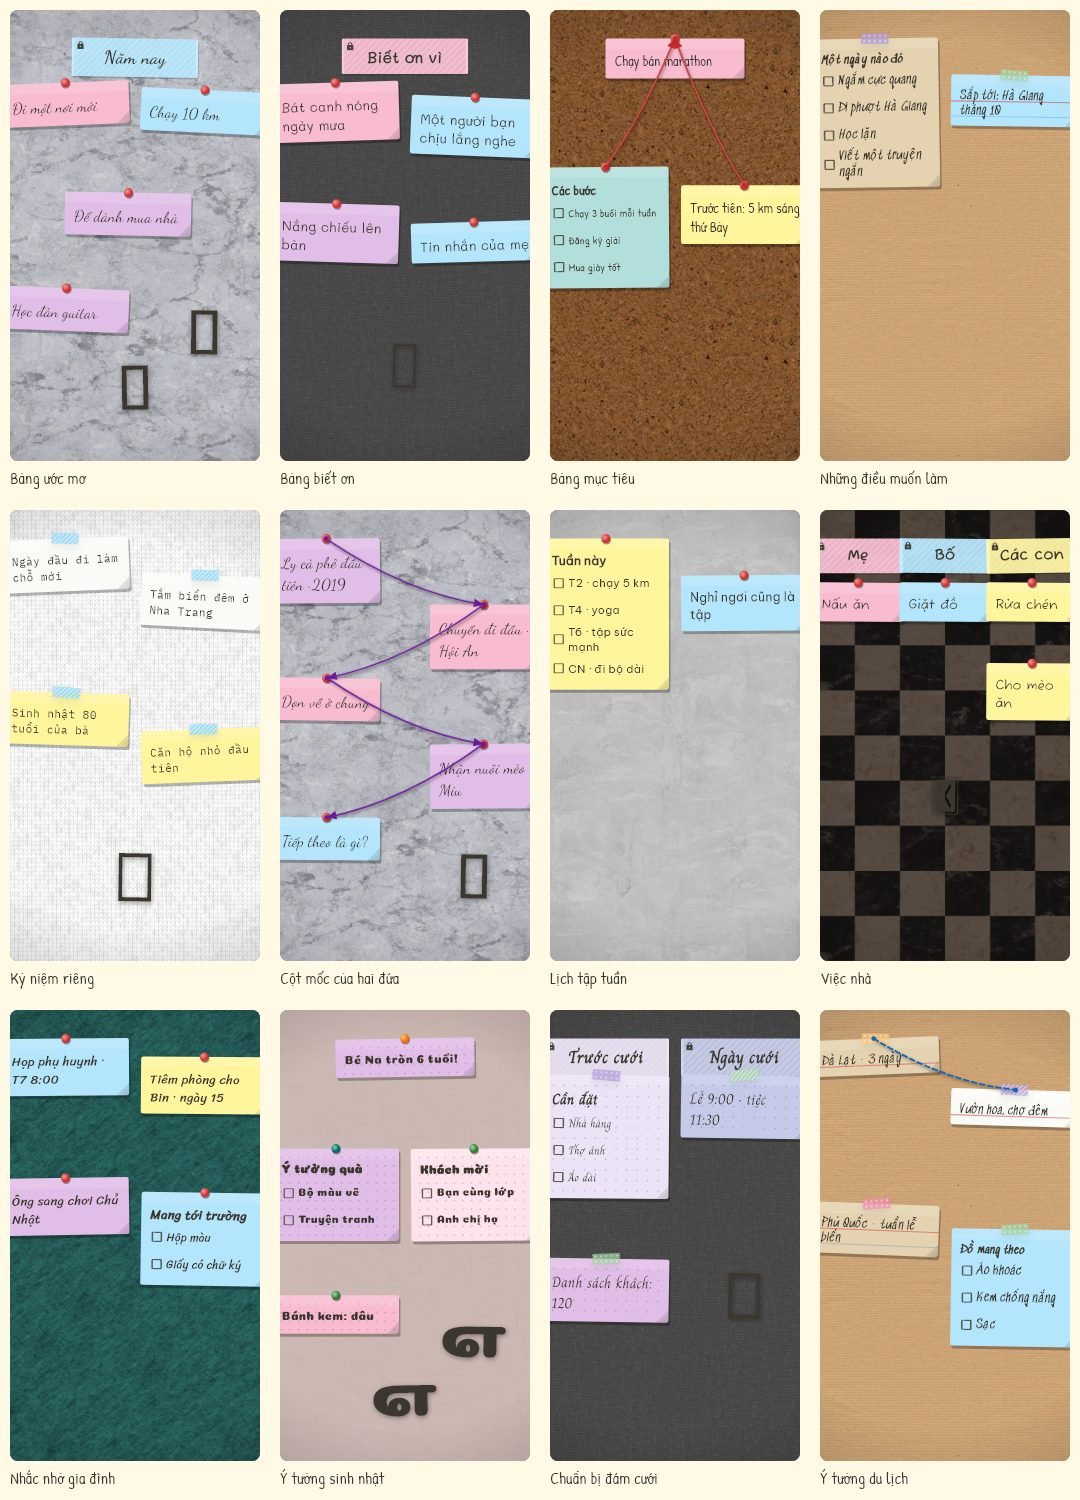
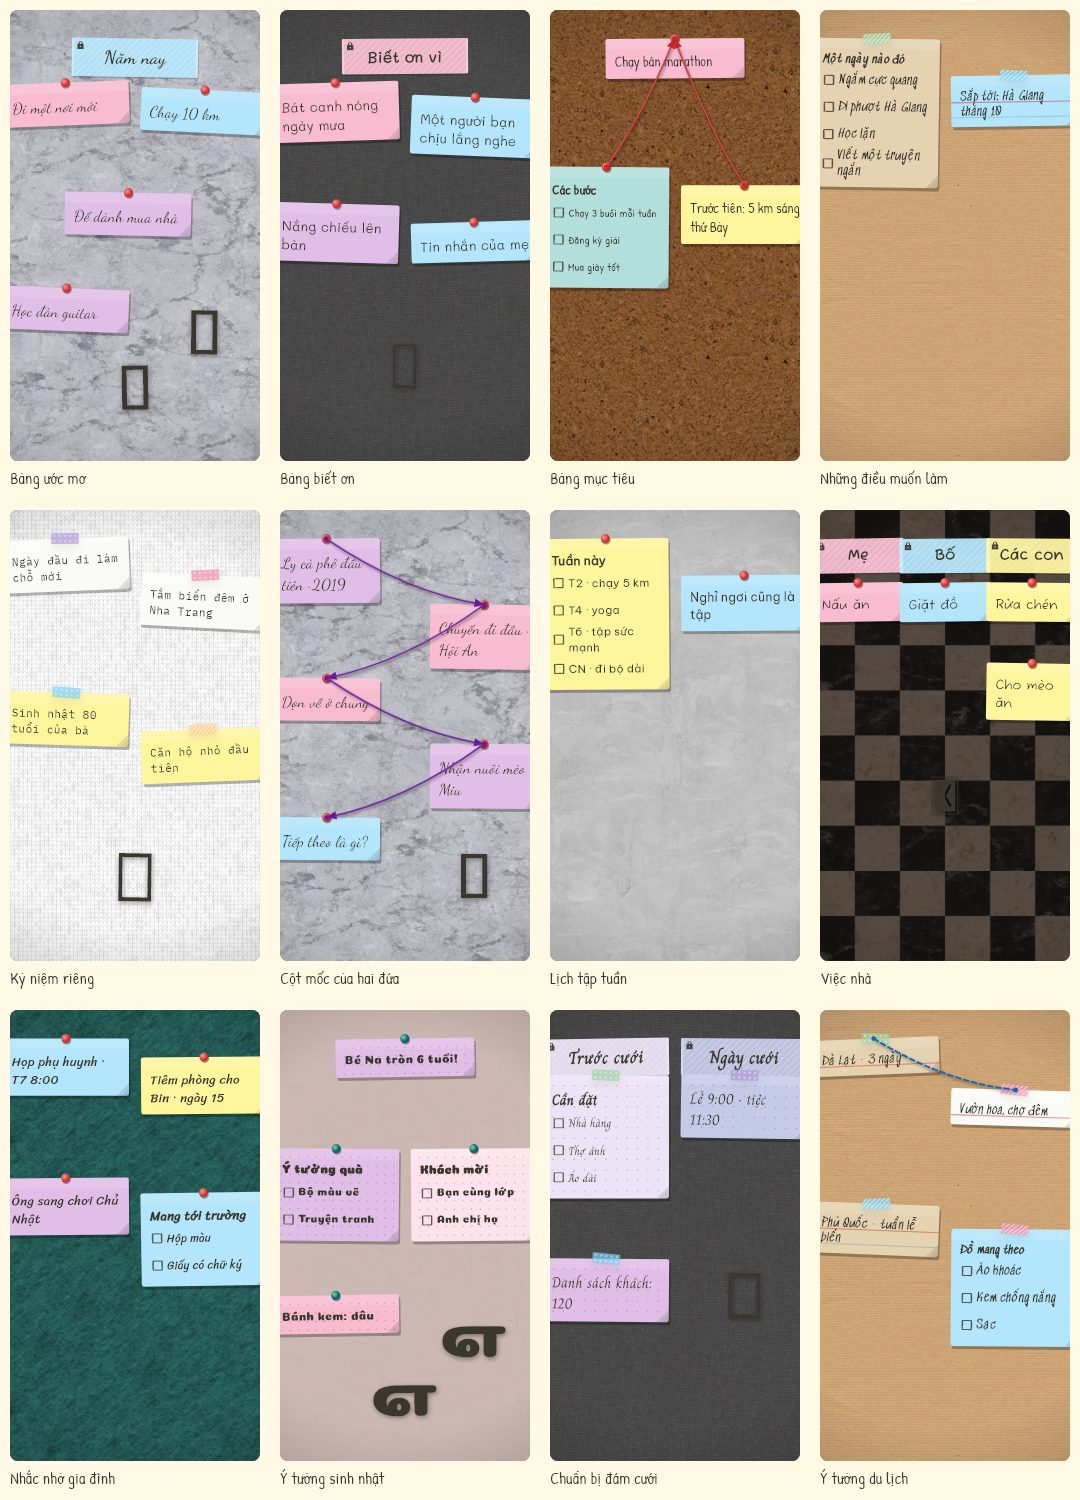
Readable faces for every theme pack; timings for 50/200/500-note walls

diff --git a/test/perf_test.dart b/test/perf_test.dart
@@ -1,0 +1,88 @@
+// Rough timings for big walls in the test environment (not a device: no GPU,
+// no real frame clock). They catch work that grows badly with the number
+// of notes; the device numbers come from a profile build.
+import 'package:flutter/material.dart';
+import 'package:flutter_test/flutter_test.dart';
+import 'package:shared_preferences/shared_preferences.dart';
+import 'package:sticky_wall/main.dart';
+import 'package:sticky_wall/models/board.dart';
+import 'package:sticky_wall/models/note.dart';
+import 'package:sticky_wall/models/view_mode.dart';
+import 'package:sticky_wall/services/note_storage.dart';
+import 'package:sticky_wall/services/notes_controller.dart';
+import 'package:sticky_wall/services/reminder_service.dart';
+import 'package:sticky_wall/services/settings_controller.dart';
+
+List<Note> _notes(int n) => [
+  for (var i = 0; i < n; i++)
+    Note(
+      guid: 'n$i',
+      content: i.isEven ? 'Note number $i' : 'Ghi chú số $i, có dấu',
+      type: i % 7 == 0 ? NoteType.checklist : NoteType.normal,
+      checklist: i % 7 == 0
+          ? [ChecklistItem(text: 'a'), ChecklistItem(text: 'b', done: true)]
+          : null,
+      createdAt: DateTime(2026).add(Duration(minutes: i)),
+      boardId: 'default',
+      colorIndex: i % 6,
+      x: (i * 37 % 100) / 100,
+      y: (i * 53 % 100) / 100,
+    ),
+];
+
+void main() {
+  for (final n in [50, 200, 500]) {
+    testWidgets('a wall of $n notes opens, drags and searches', (tester) async {
+      tester.view.physicalSize = const Size(1080, 2220);
+      tester.view.devicePixelRatio = 3;
+      addTearDown(tester.view.reset);
+      SharedPreferences.setMockInitialValues({});
+      final storage = await NoteStorage.create();
+      await storage.saveBoards([Board(id: 'default', name: '')]);
+      await storage.saveNotes(_notes(n));
+      await storage.setViewMode(ViewMode.wall);
+      final notes = NotesController(storage, ReminderService());
+
+      final open = Stopwatch()..start();
+      await tester.pumpWidget(
+        StickyWallApp(settings: SettingsController(storage), notes: notes),
+      );
+      await tester.pump();
+      open.stop();
+
+      final drag = Stopwatch()..start();
+      final g = await tester.startGesture(const Offset(200, 900));
+      for (var i = 0; i < 10; i++) {
+        await g.moveBy(const Offset(4, 3));
+        await tester.pump(const Duration(milliseconds: 16));
+      }
+      await g.up();
+      await tester.pump();
+      drag.stop();
+
+      final search = Stopwatch()..start();
+      notes.search = 'co dau';
+      await tester.pump();
+      search.stop();
+      expect(notes.visibleNotes, isNotEmpty);
+
+      final grid = Stopwatch()..start();
+      notes
+        ..search = ''
+        ..viewMode = ViewMode.grid;
+      await tester.pump();
+      grid.stop();
+
+      debugPrint(
+        'PERF n=$n open=${open.elapsedMilliseconds}ms '
+        'drag10=${drag.elapsedMilliseconds}ms '
+        'search=${search.elapsedMilliseconds}ms '
+        'grid=${grid.elapsedMilliseconds}ms',
+      );
+      // Generous: this only fails when something grows out of hand.
+      expect(open.elapsedMilliseconds, lessThan(20000));
+      expect(drag.elapsedMilliseconds, lessThan(20000));
+      await tester.pumpWidget(const SizedBox());
+    });
+  }
+}

diff --git a/lib/services/theme_packs.dart b/lib/services/theme_packs.dart
@@ -78,7 +78,8 @@ class ThemePack {
 int _mix(int argb) => customPaper(Color(argb));
 
 /// The packs, free ones first in each shelf. Ids are stored on boards: never
-/// rename or reuse one.
+/// rename or reuse one. The whole app takes a board's handwriting, so packs
+/// use faces that stay readable at toolbar size (no Amatic SC).
 final themePacks = <ThemePack>[
   // --- Free -------------------------------------------------------------
   const ThemePack(
@@ -98,7 +99,7 @@ final themePacks = <ThemePack>[
     category: ThemeCategory.study,
     wall: 'chalk_black',
     papers: [0, 3, 4],
-    font: 'amatic',
+    font: 'fuzzy',
     yarn: 0xFFF9A825,
     stickers: ['star', 'check'],
   ),
@@ -364,7 +365,7 @@ final themePacks = <ThemePack>[
     wall: 'chalk_navy',
     papers: [11, 3, 8],
     pin: PinStyle.magnet,
-    font: 'amatic',
+    font: 'shantell',
     thread: ThreadStyle.dashed,
     yarn: 0xFFF5F2EA,
   ),

diff --git a/test/template_library_test.dart b/test/template_library_test.dart
@@ -201,6 +201,12 @@ void main() {
       }
     });
 
+    test('no pack uses a face too narrow for the app around it', () {
+      for (final t in themePacks) {
+        expect(t.font, isNot('amatic'), reason: t.id);
+      }
+    });
+
     test('free packs use only free things; the rest are marked Pro', () {
       final free = themePacks.where((t) => !t.pro).toList();
       expect(free.length, greaterThanOrEqualTo(12));

diff --git a/test/gallery_test.dart b/test/gallery_test.dart
@@ -122,7 +122,7 @@ void main() {
 
     final mine = notes.boardNotes.single;
     expect(notes.currentBoard.themeId, 'dark_chalk');
-    expect(notes.currentBoard.fontId, 'amatic');
+    expect(notes.currentBoard.fontId, 'fuzzy');
     expect(mine.content, 'My own words');
     expect((mine.x, mine.y), (0.3, 0.4));
     expect(find.text('“Dark Chalk” applied'), findsOneWidget);
